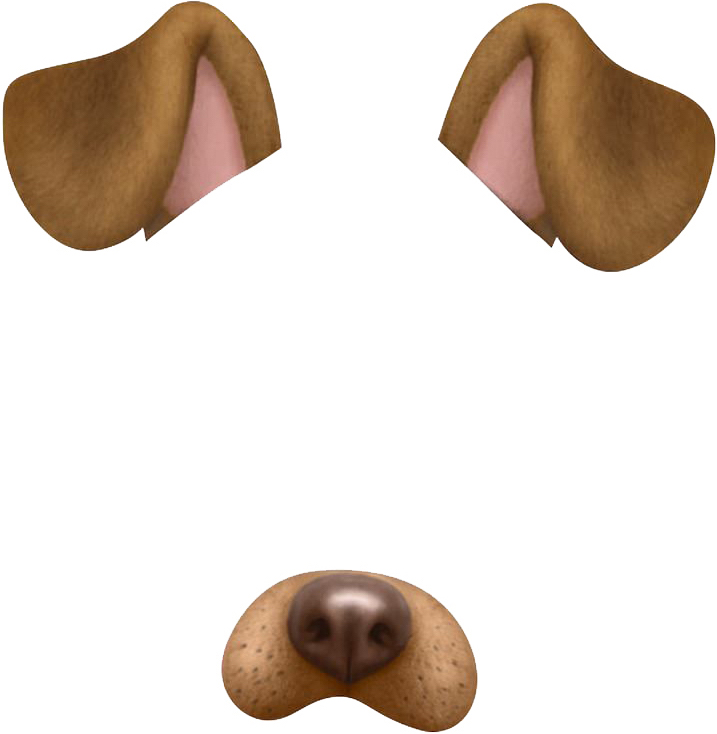
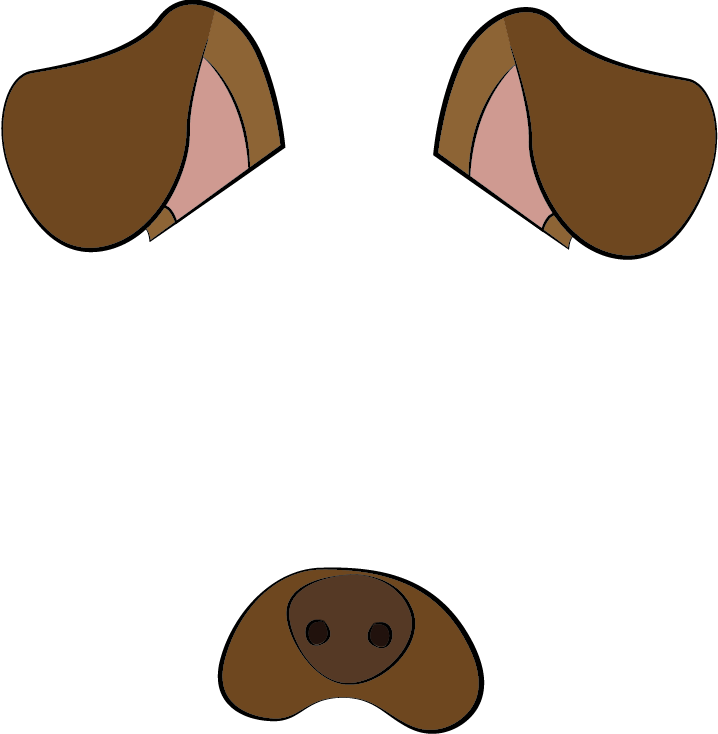
new images, fixed links

diff --git a/src/step_8_dog_emotion_mask.py b/src/step_8_dog_emotion_mask.py
@@ -40,7 +40,7 @@ def main():
     # load mask
     mask0 = cv2.imread('assets/dog.png')
     mask1 = cv2.imread('assets/dalmation.png')
-    mask2 = cv2.imread('assets/cat.png')
+    mask2 = cv2.imread('assets/sheepdog.png')
     masks = (mask0, mask1, mask2)
 
     # get emotion predictor
